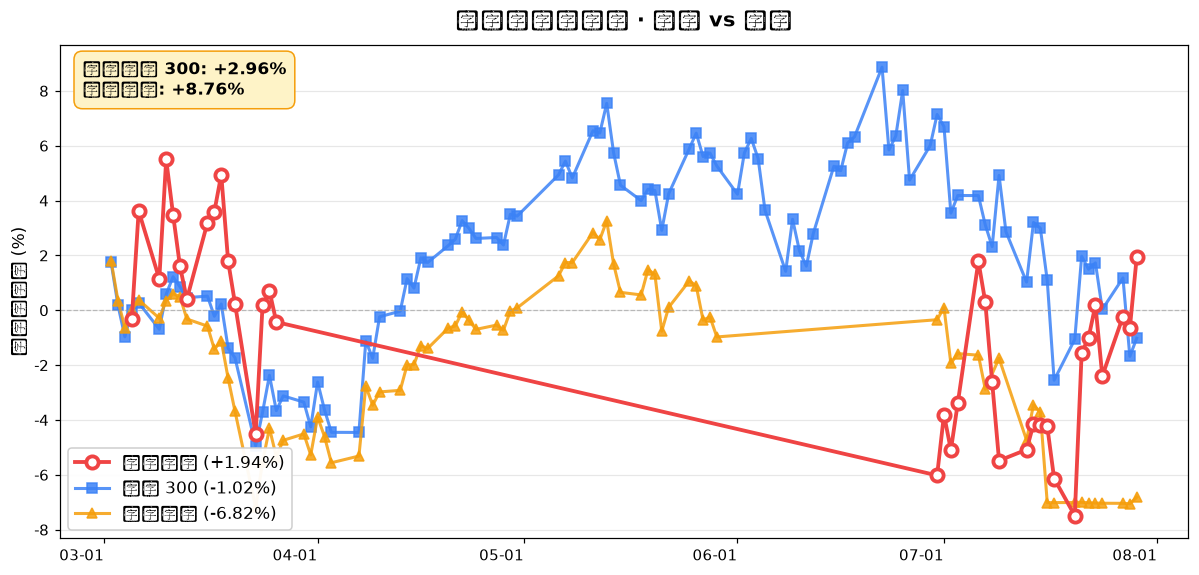
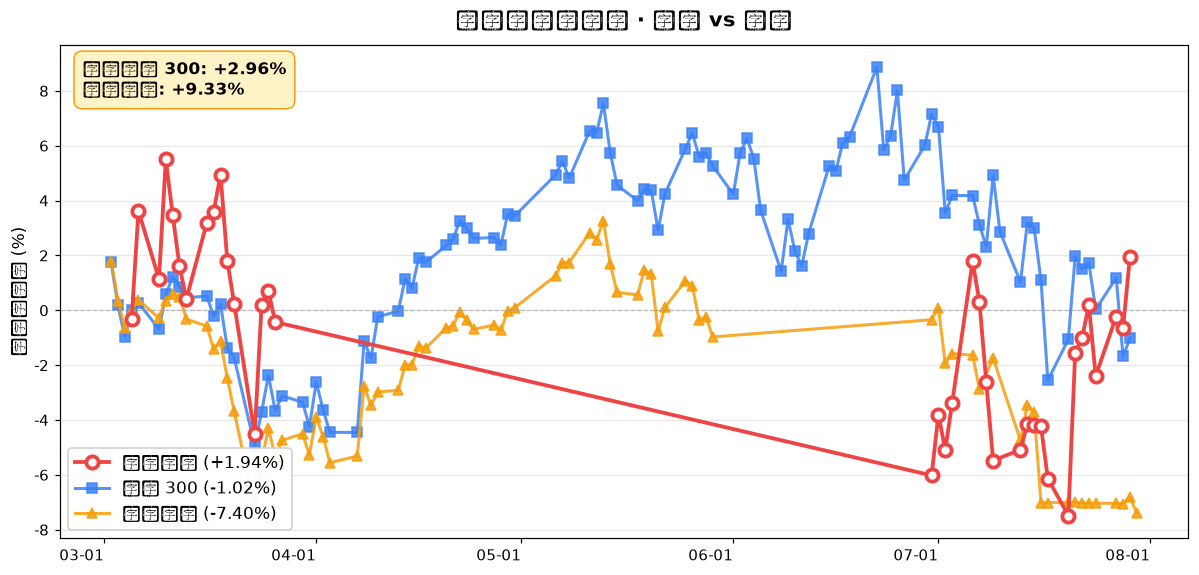
deploy dashboard 2026-07-30

diff --git a/dashboard/index.html b/dashboard/index.html
@@ -111,7 +111,7 @@
 
 <div class="header">
   <h1 data-i18n="title">📊 持仓 Dashboard</h1>
-  <div class="date">2026-07-30 · 更新于 08:20</div>
+  <div class="date">2026-07-30 · 更新于 08:39</div>
 </div>
 
 <div class="hero-pnl" style="padding:16px">
@@ -157,7 +157,7 @@
 
 <div class="excess">
         <b>🔴 跑赢 沪深 300</b>: +2.96%<br>
-        <b>🔴 跑赢 上证指数</b>: +8.76%
+        <b>🔴 跑赢 上证指数</b>: +9.33%
     </div>
 
 <div class="section">
